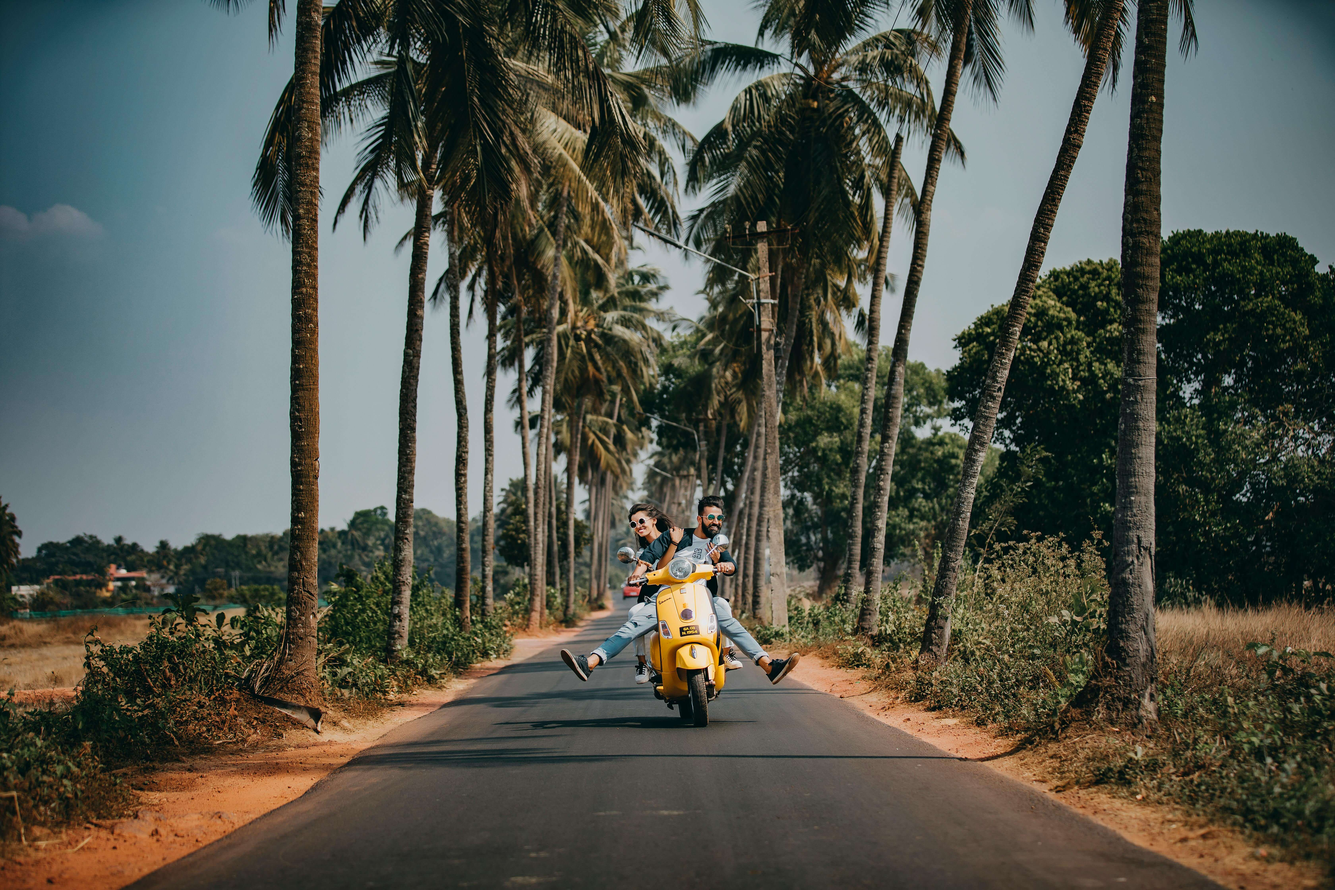
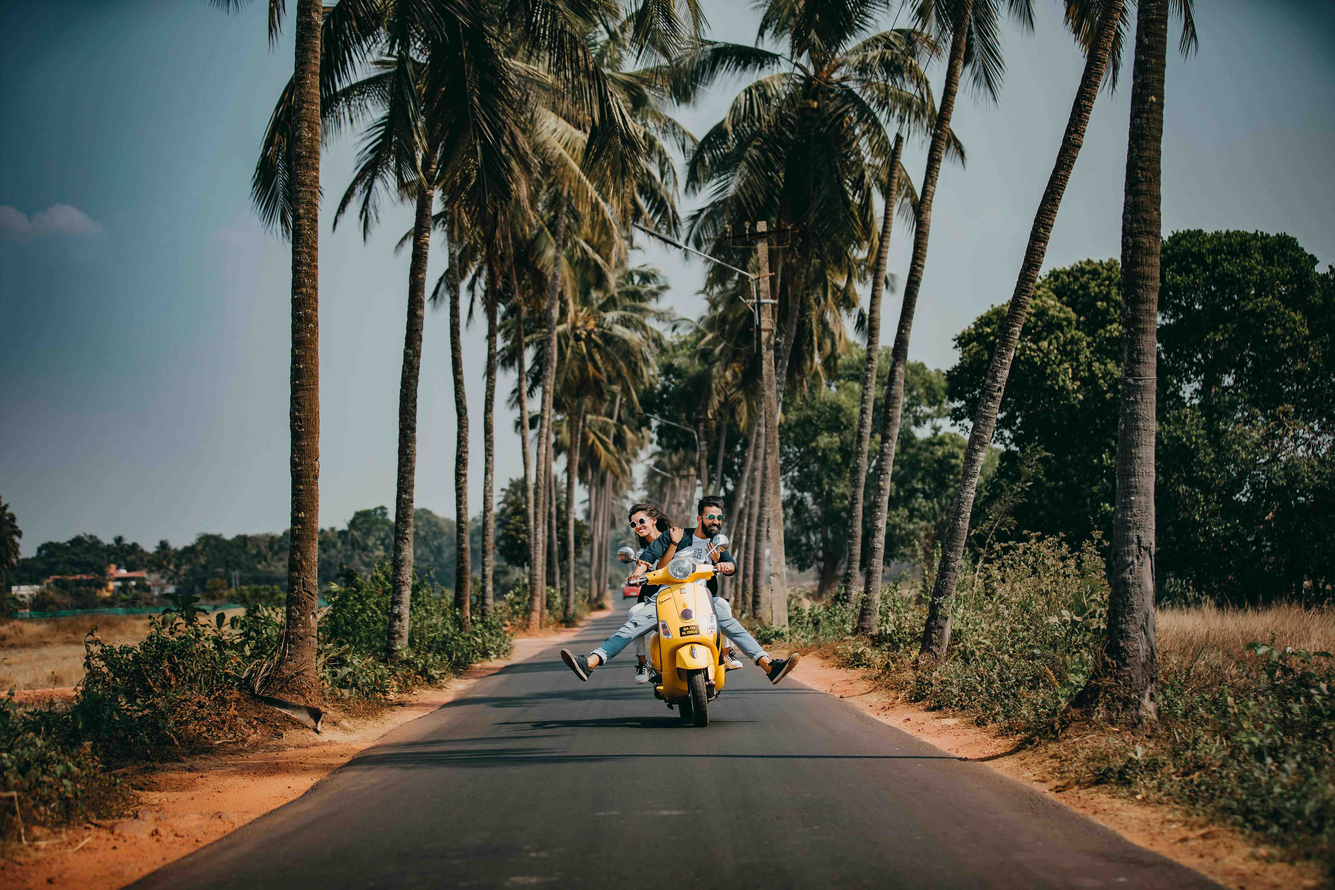
Replace hero image

Changed region(s): [[0.6562, 0.7188, 0.7812, 0.8125], [0.1562, 0.8125, 0.2188, 0.8438]]

diff --git a/blog/templates/blog/index.html b/blog/templates/blog/index.html
@@ -5,7 +5,7 @@
 
 <!-- HEADER - hero section - CreditL https://bootstrapbrain.com/component/bootstrap-5-hero-image-section-example/#preview -->
 <div id="heroDiv">
-    <section class="bsb-hero-1 px-3 bsb-overlay bsb-hover-pull" style="background-image: url('static/images/sample-hero-image.webp');">
+    <section class="bsb-hero-1 px-3 bsb-overlay bsb-hover-pull" style="background-image: url('static/images/sample-hero-image.jpg');">
         <div class="container">
             <div class="row justify-content-md-center">
                 <div class="col-12 col-md-11 col-lg-9 col-xl-7 col-xxl-6 text-center text-white">
